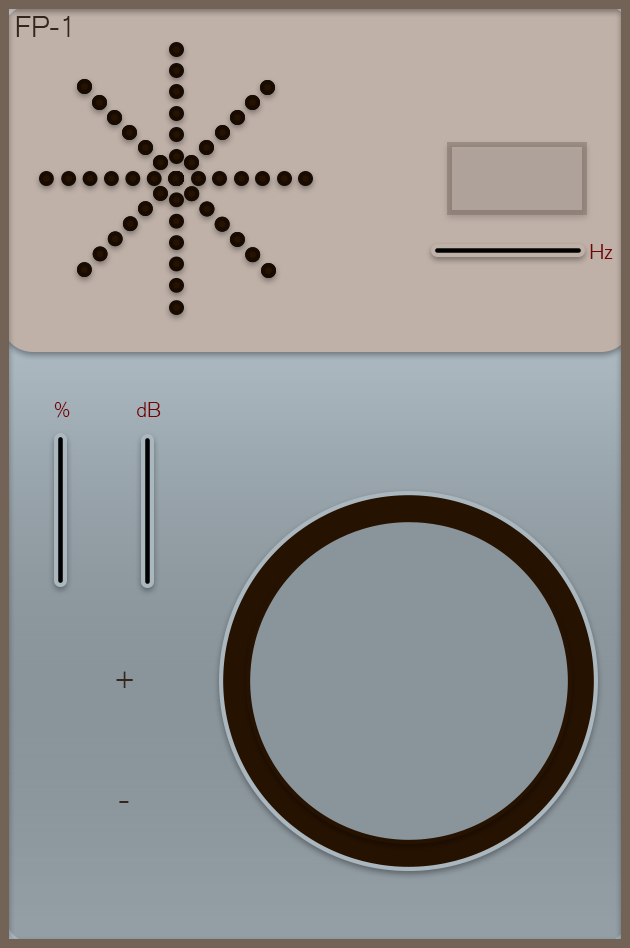
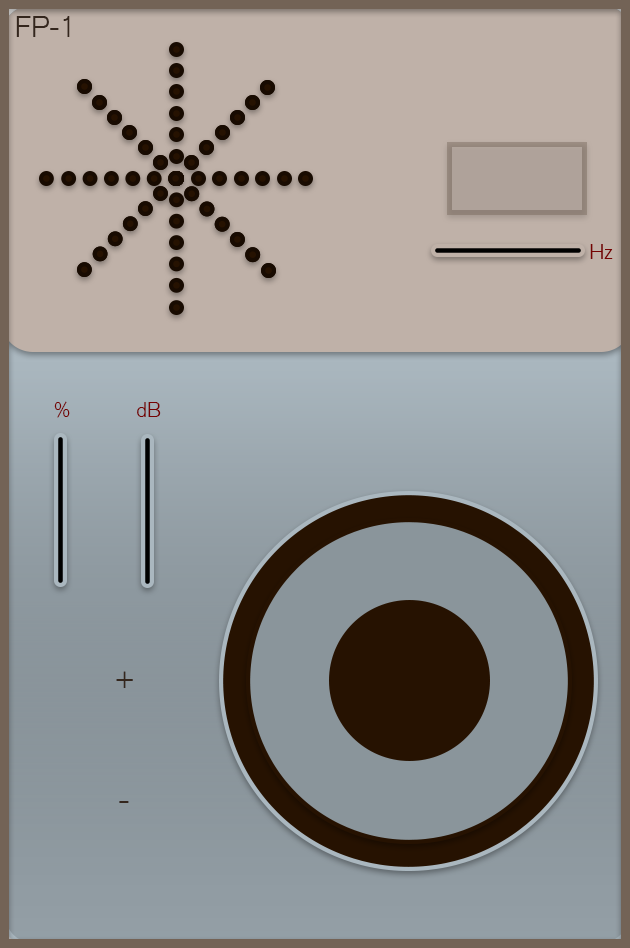
FFT Fully implemented and working

Changed region(s): [[0.5127, 0.6118, 0.7841, 0.8259]]

diff --git a/PluginEditor.cpp b/PluginEditor.cpp
@@ -123,7 +123,7 @@ FilterTripAudioProcessorEditor::~FilterTripAudioProcessorEditor()
 }
 
 //==============================================================================
-void FilterTripAudioProcessorEditor::paint (juce::Graphics& g)
+void FilterTripAudioProcessorEditor::paint(juce::Graphics& g)
 {
     //g.fillAll(getLookAndFeel().findColour(juce::ResizableWindow::backgroundColourId));
     g.fillAll(juce::Colours::lightslategrey);
@@ -134,75 +134,80 @@ void FilterTripAudioProcessorEditor::paint (juce::Graphics& g)
     //DRAWING ASSETS ON SCREEN
 
     auto bounds = getLocalBounds().toFloat();
-    
+
     g.setColour(juce::Colours::red);
     juce::Path path;
-    
+
+    const float centerX = 409.11;
+    const float centerY = 680.81;
+
     const int numSamples = mEnvelopeBuffer.getNumSamples();
-    
-    for (int i = 0; i < numSamples; i++) {
-        const float x = getWidth() * 0.5f; // Center x-coordinate
-        const float y = getHeight() * 0.5f; // Center y-coordinate
 
-        const float radius = (getHeight() * 0.35) * mEnvelopeBuffer.getSample(0, i); // Adjust multiplier as needed
+    if (numSamples > 0) {
+        const int numPoints = std::min(100, numSamples); // Adjust the number of points for smoother circles
 
-        // Create a circular path centered at (x, y) with an increasing radius
-        juce::Path ellipsePath;
-        ellipsePath.addEllipse(x - radius, y - radius, 2.0f * radius, 2.0f * radius);
+        const float minX = 200.0f; // Adjust as needed
+        const float minY = 200.0f; // Adjust as needed
+        const float maxX = 833.0f; // Adjust as needed
+        const float maxY = 833.0f; // Adjust as needed
 
-        // Add the circular path to the main path
-        if (i == 0) {
-            path.addPath(ellipsePath);
-        }
-        else {
-            path.addPath(ellipsePath, juce::AffineTransform::identity);
-        }
-    }
+        for (int i = 0; i < numPoints; i++) {
+            const float angle = juce::MathConstants<float>::twoPi * static_cast<float>(i) / numPoints;
+            float radius = (getHeight() * 0.35) * mEnvelopeBuffer.getSample(0, i % numSamples);
 
-    g.strokePath(path, juce::PathStrokeType(2.0f));
+            // Ensure the radius fits within the bounds
+            radius = std::min(radius, std::min(centerX - minX, maxX - centerX));
+            radius = std::min(radius, std::min(centerY - minY, maxY - centerY));
 
+            const float x = centerX + radius * std::cos(angle);
+            const float y = centerY + radius * std::sin(angle);
 
-    /*
-
-    for (int i = 0; i < numSamples; i++) {
-        const float x = getWidth() * static_cast<float>(i) / static_cast<float>(numSamples - 1);
-        const float y = (getHeight() * (1.0f - mEnvelopeBuffer.getSample(0, i))) - (getHeight() * 0.35);
-
-        if (i == 0) {
-            path.startNewSubPath(x, y);
-        }
-        else {
-            path.lineTo(x, y);
+            if (i == 0) {
+                path.startNewSubPath(x, y);
+            }
+            else {
+                path.lineTo(x, y);
+            }
         }
     }
-    g.strokePath(path, juce::PathStrokeType(8.0f));
-   */
-    /*
-    g.setColour(juce::Colours::red);
-    juce::Path path;
-     
-    const int numSamples = mEnvelopeBuffer.getNumSamples();
-    for (int i = 0; i < numSamples; i++) {
-        const float x = getWidth() * static_cast<float>(i) / static_cast<float>(numSamples - 1);
-        const float y = (getHeight() * (1.0f - mEnvelopeBuffer.getSample(0, i))) - (getHeight() * 0.35);
+    // Use numSamples directly to scale the stroke thickness
+    g.strokePath(path, juce::PathStrokeType(2.0f * static_cast<float>(numSamples) / 50.0f));
 
-        if (i == 0) {
-            path.startNewSubPath(x, y);
-        }
-        else {
-            path.lineTo(x, y);
-        }
-    }
-   
-    g.strokePath(path, juce::PathStrokeType(8.0f));
-    */
-
-    // (Our component is opaque, so we must completely fill the background with a solid colour)
-    
 
 
 }
 
+    /*
+    g.setColour(juce::Colours::red);
+    juce::Path path;
+
+    const float centerX = 409.11;
+    const float centerY = 680.81;
+
+    const int numSamples = mEnvelopeBuffer.getNumSamples();
+
+    if (numSamples > 0) {
+        const int numPoints = std::min(100, numSamples); // Adjust the number of points for smoother circles
+
+        for (int i = 0; i < numPoints; i++) {
+            const float angle = juce::MathConstants<float>::twoPi * static_cast<float>(i) / numPoints;
+            const float radius = (getHeight() * 0.35) * mEnvelopeBuffer.getSample(0, i % numSamples); // Use the modulo to loop through numSamples
+
+            const float x = centerX + radius * std::cos(angle);
+            const float y = centerY + radius * std::sin(angle);
+
+            if (i == 0) {
+                path.startNewSubPath(x, y);
+            }
+            else {
+                path.lineTo(x, y);
+            }
+        }
+    }
+
+    g.strokePath(path, juce::PathStrokeType(10.0f));
+}
+*/
 
 
 

diff --git a/PluginEditor.h b/PluginEditor.h
@@ -30,7 +30,7 @@ public:
         mEnvelopeBuffer = audioProcessor.getEnvelopeBuffer();
         //DBG(juce::String (mEnvelopeBuffer.getRMSLevel(0,0,mEnvelopeBuffer.getNumSamples())));
         repaint();
-
+        
     };
     
 
@@ -46,6 +46,8 @@ private:
     // access the processor object that created it.
     FilterTripAudioProcessor& audioProcessor;
     juce::AudioBuffer<float> mEnvelopeBuffer;
+
+   
 
 
     juce::Image Background;
